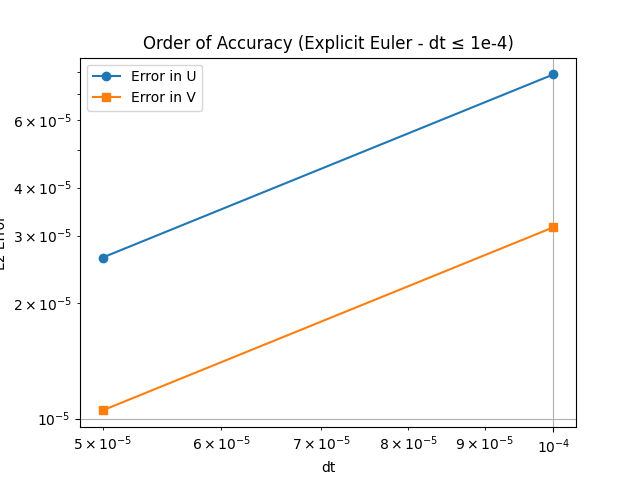
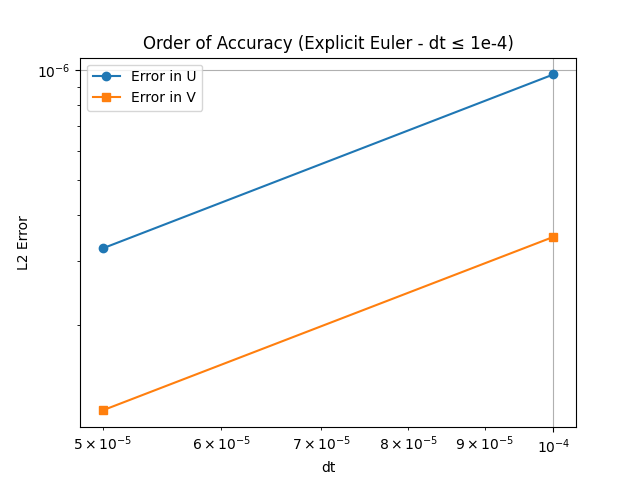
Solver changes

diff --git a/benchmark_explicit_euler.py b/benchmark_explicit_euler.py
@@ -1,29 +1,17 @@
 
 import numpy as np
 import matplotlib.pyplot as plt
+import time
+from explicit_solver import explicit_euler
 
-# Laplacian function
-def laplacian(U, dx):
-    L = np.zeros_like(U)
-    L[1:-1, 1:-1] = (
-        U[2:, 1:-1] + U[:-2, 1:-1] + U[1:-1, 2:] + U[1:-1, :-2] - 4 * U[1:-1, 1:-1]
-    ) / dx**2
-    return L
 
-# Explicit Euler step
-def explicit_euler(u, v, f, g, D_u, D_v, dx, dt):
-    Lu = laplacian(u, dx)
-    Lv = laplacian(v, dx)
-    u_new = u + dt * (D_u * Lu + f(u, v))
-    v_new = v + dt * (D_v * Lv + g(u, v))
-    return u_new, v_new
 
 # Gray-Scott parameters
 alpha, beta = 0.04, 0.06
-D_u, D_v = 0.1, 0.05
+D_u, D_v = 0.02, 0.05
 N = 100
 dx = 1.0 / N
-T = 1.0
+T = 10.0
 dt_list = [1e-4, 5e-5, 2.5e-5]
 
 # Reaction terms
@@ -54,24 +42,31 @@ u_ref, v_ref = run_simulation(ref_dt)
 # Error calculation
 errors_u = []
 errors_v = []
+execution_times = [] 
+
+
 
 for dt in dt_list[:-1]:
+    start=time.time()
     u_approx, v_approx = run_simulation(dt)
+    end=time.time()
     errors_u.append(np.linalg.norm(u_approx - u_ref))
     errors_v.append(np.linalg.norm(v_approx - v_ref))
+    execution_times.append(end - start)
 
 # Save plots
 plt.imshow(u_ref, cmap='viridis')
 plt.title(f'U field at T={T}s, dt={ref_dt}')
 plt.colorbar()
-plt.savefig("U_field_very_stable.png")
-plt.close()
+#plt.savefig("U_field_very_stable.png")
+plt.show()
+
 
 plt.imshow(v_ref, cmap='plasma')
 plt.title(f'V field at T={T}s, dt={ref_dt}')
 plt.colorbar()
-plt.savefig("V_field_very_stable.png")
-plt.close()
+#plt.savefig("V_field_very_stable.png")
+plt.show()
 
 dt_vals = np.array(dt_list[:-1])
 plt.loglog(dt_vals, errors_u, 'o-', label='Error in U')
@@ -81,5 +76,16 @@ plt.ylabel('L2 Error')
 plt.title('Order of Accuracy (Explicit Euler - dt ≤ 1e-4)')
 plt.legend()
 plt.grid(True)
-plt.savefig("Error_loglog_plot_very_stable.png")
-plt.close()
+#plt.savefig("Error_loglog_plot_very_stable.png")
+plt.show()
+
+
+plt.plot(dt_list[:-1], execution_times, 'o-')
+plt.xlabel("Time Step Size (dt)")
+plt.ylabel("Execution Time (s)")
+plt.title("Execution Time vs Time Step")
+plt.grid(True)
+#plt.savefig("Benchmark_Plot.png")
+plt.show()
+
+

diff --git a/explicit_solver.py b/explicit_solver.py
@@ -1,14 +1,19 @@
 import numpy as np
 
-def laplacian(U, dx):
+def laplacian(Z, dx):
     """
     Second-order finite difference Laplacian (∇²U) on a 2D Cartesian grid.
     """
-    L = np.zeros_like(U)
+    """L = np.zeros_like(U)
     L[1:-1, 1:-1] = (
         U[2:, 1:-1] + U[:-2, 1:-1] + U[1:-1, 2:] + U[1:-1, :-2] - 4 * U[1:-1, 1:-1]
     ) / dx**2
-    return L
+    return L"""
+    return (
+        -4 * Z
+        + np.roll(Z, (1, 0), (0, 1)) + np.roll(Z, (-1, 0), (0, 1))
+        + np.roll(Z, (0, 1), (0, 1)) + np.roll(Z, (0, -1), (0, 1))
+    ) / dx**2
 
 def explicit_euler(u, v, f, g, D_u, D_v, dx, dt):
     """
